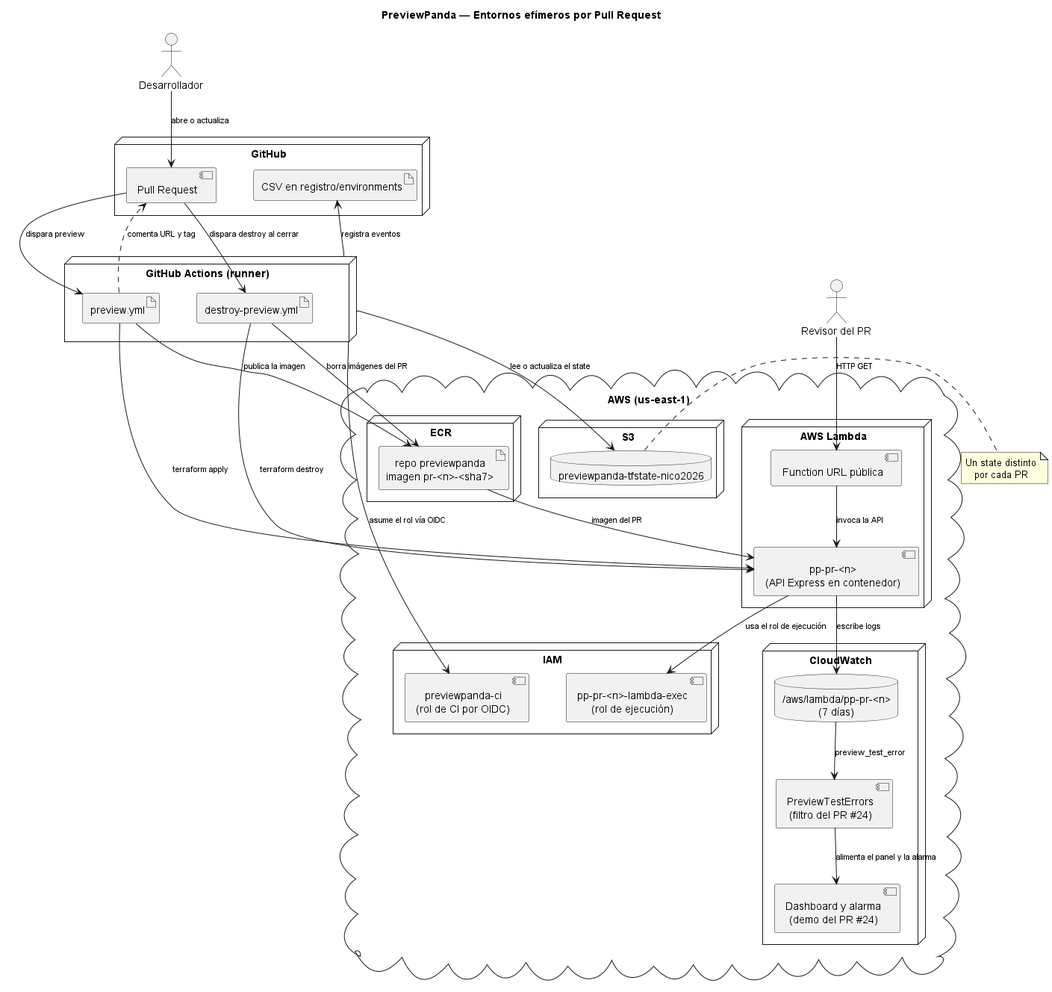
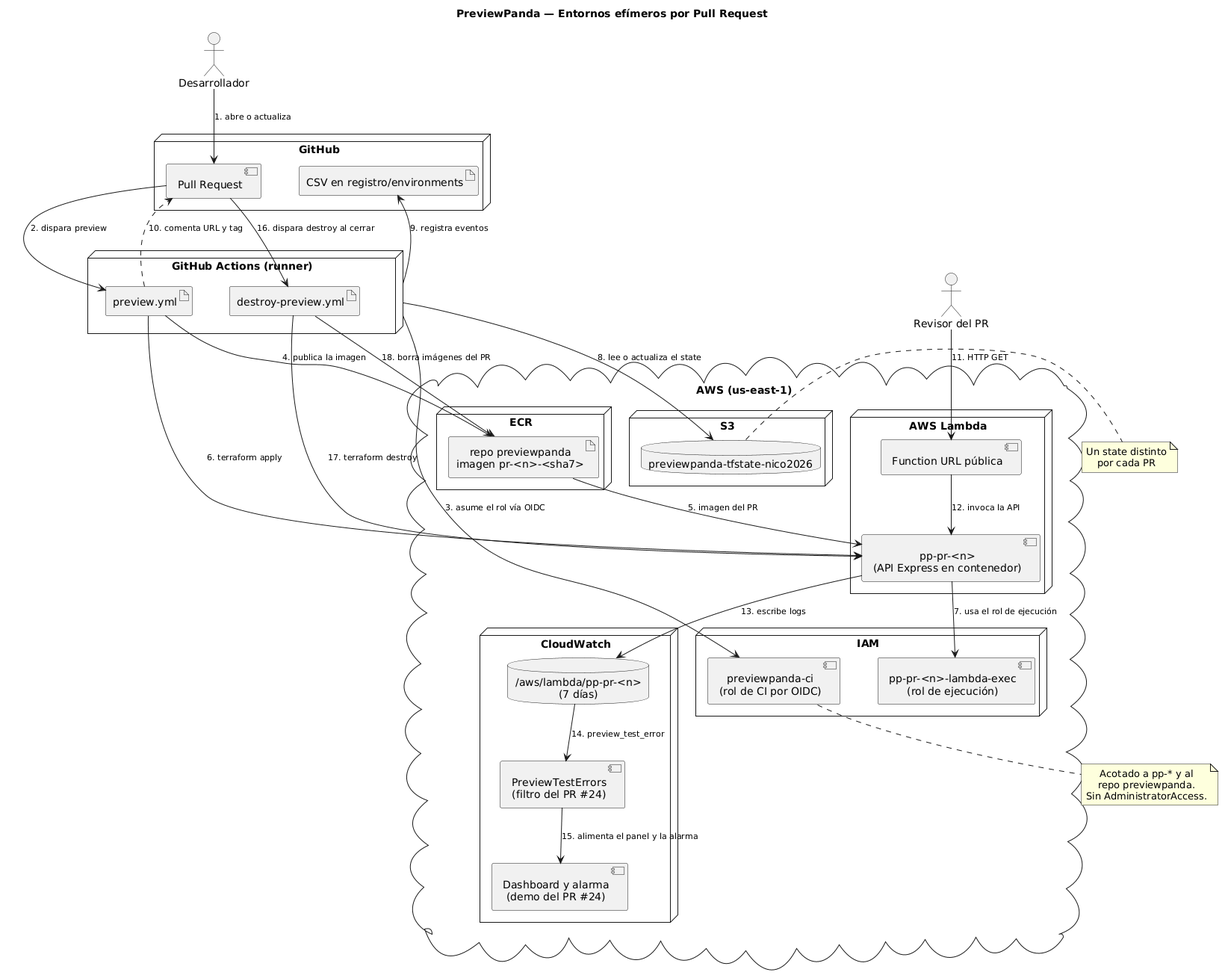
docs: numerar y completar diagrama de despliegue; agregar imagenes de diagramas por workflow; redactar informe con prosa del equipo
Agrega las notas de alcance del rol CI y numera los pasos del diagrama
de despliegue. Suma las imagenes renderizadas de los diagramas de
apply, destroy y destroy manual. Reescribe informe.md en primera
persona, sin cambiar contenido tecnico ni datos.

diff --git a/docs/informe.md b/docs/informe.md
@@ -10,56 +10,56 @@
 
 ## 1. Resumen
 
-PreviewPanda crea un entorno de prueba aislado para cada Pull Request. Al abrir, actualizar o reabrir un PR, GitHub Actions prepara la imagen en Amazon ECR y ejecuta Terraform para desplegar la API en AWS Lambda. El comentario del PR incluye la Function URL y el plan de Terraform.
+Armamos PreviewPanda para que cada Pull Request tenga su propio entorno de prueba aislado. Cuando alguien abre, actualiza o reabre un PR, GitHub Actions prepara la imagen en Amazon ECR y usa Terraform para desplegar la API en AWS Lambda. El comentario que deja en el PR incluye la Function URL y el plan de Terraform que se aplicó.
 
-Cuando el PR se cierra o se mergea, otro workflow ejecuta `terraform destroy` sobre su state y elimina los recursos temporales. Una limpieza nocturna revisa los entornos huérfanos que quedan en S3.
+Cuando el PR se cierra o se mergea, otro workflow corre `terraform destroy` sobre su state y borra todo lo que quedó asociado. Además, todas las noches corre una limpieza que revisa si quedó algún entorno huérfano en S3.
 
-Así, quien revisa el PR puede probar ese commit desde el navegador antes de mergearlo. Una vez cerrado el PR, el entorno deja de estar disponible y queda un registro de su duración y costo estimado.
+Con esto, quien revisa el PR puede probar ese commit directo desde el navegador antes de mergearlo. Una vez que el PR se cierra, el entorno desaparece y queda un registro de cuánto duró y cuánto costó, estimado.
 
 ## 2. Requisitos verificables
 
-| # | Requisito | Implementación en PreviewPanda |
+| # | Requisito | Cómo lo resolvimos |
 |---:|---|---|
-| 1 | Cada PR tiene su propio entorno y URL | Lambda `pp-pr-<n>` con Function URL propia. |
-| 2 | El entorno se destruye al cerrar o mergear | `terraform destroy` y limpieza de los recursos temporales asociados al PR. |
-| 3 | Módulo Terraform reutilizable | Variable `env_name` para generar los nombres del entorno. |
-| 4 | Un state por entorno | Key de S3 con el formato `previews/pr-<n>/terraform.tfstate`. |
-| 5 | Etiqueta `pr=<n>` | Tags comunes aplicados a los recursos creados. |
-| 6 | Limpieza nocturna de huérfanos | `nightly-cleanup.yml` ejecuta `scripts/cleanup_orphans.py` todos los días a las 03:00 de Uruguay. |
-| 7 | Política de concurrencia | Grupo `preview-pr-<n>` para serializar las ejecuciones del mismo PR. |
-| 8 | Registro y costo por entorno | Los workflows escriben en el CSV de la rama `registro/environments`. El PR #26 muestra los tres eventos del ciclo. |
+| 1 | Cada PR tiene su propio entorno y URL | Una Lambda `pp-pr-<n>` con su propia Function URL. |
+| 2 | El entorno se destruye al cerrar o mergear | `terraform destroy` más la limpieza de todo lo asociado al PR. |
+| 3 | Módulo Terraform reutilizable | La variable `env_name` genera todos los nombres del entorno. |
+| 4 | Un state por entorno | Cada PR tiene su propia key en S3: `previews/pr-<n>/terraform.tfstate`. |
+| 5 | Etiqueta `pr=<n>` | Tags comunes que se aplican a todos los recursos que se crean. |
+| 6 | Limpieza nocturna de huérfanos | `nightly-cleanup.yml` corre `scripts/cleanup_orphans.py` todos los días a las 03:00 de Uruguay. |
+| 7 | Política de concurrencia | Un grupo `preview-pr-<n>` que serializa las ejecuciones de un mismo PR. |
+| 8 | Registro y costo por entorno | Los workflows escriben en el CSV que vive en la rama `registro/environments`. El PR #26 muestra los tres eventos del ciclo completo. |
 
-## 3. Alcance de la aplicación
+## 3. La aplicación
 
-La aplicación es una API Node.js con Express. Se ejecuta localmente como servidor HTTP y en AWS Lambda mediante una imagen de contenedor.
+Hicimos una API de Node.js con Express, chica a propósito. Corre local como servidor HTTP, y en AWS corre en Lambda con una imagen de contenedor.
 
-Cada preview usa una imagen identificada por el número de PR y el commit. Terraform configura estas variables en Lambda:
+Cada preview usa una imagen identificada por el número del PR y el commit. Terraform le pasa estas variables a la Lambda:
 
-- `PR_NUMBER`: número del Pull Request.
-- `COMMIT_SHA`: commit de la imagen desplegada.
+- `PR_NUMBER`: el número del Pull Request.
+- `COMMIT_SHA`: el commit de la imagen que está desplegada.
 
 ### Endpoints
 
-| Endpoint | Propósito |
+| Endpoint | Para qué sirve |
 |---|---|
-| `GET /` | Devuelve nombre de la aplicación, PR, commit y ruta de Swagger. |
-| `GET /health` | Responde `200 ok` para health checks y smoke tests. |
-| `GET /error` | Devuelve un `500` controlado para probar logs y alarmas. |
-| `GET /api-docs` | Expone la documentación interactiva Swagger. |
+| `GET /` | Devuelve el nombre de la app, el PR, el commit y dónde está Swagger. |
+| `GET /health` | Responde `200 ok`, para health checks y smoke tests. |
+| `GET /error` | Devuelve un `500` a propósito, para probar logs y alarmas. |
+| `GET /api-docs` | La documentación interactiva de Swagger. |
 
-### 3.1 Pruebas de la aplicación
+### 3.1 Cómo probamos la aplicación
 
-Las mismas rutas se prueban primero localmente y luego sobre la Function URL creada para el PR.
+Las mismas rutas las probamos primero local y después sobre la Function URL que se crea para el PR.
 
 #### `GET /`
 
-Verifica la identidad del entorno desplegado.
+Sirve para confirmar qué entorno es.
 
 ```text
 GET /
 ```
 
-Ejemplo de respuesta:
+Respuesta esperada:
 
 ```json
 {
@@ -70,11 +70,11 @@ Ejemplo de respuesta:
 }
 ```
 
-La respuesta refleja el Pull Request probado y el commit usado para construir la imagen. En local, si no se configuran variables, se muestran los valores `NOT_CONFIGURED`.
+El `pr` y el `commit` tienen que coincidir con lo que se está probando. Si la corremos local sin configurar nada, aparece `NOT_CONFIGURED` en los dos campos.
 
 #### `GET /health`
 
-Verifica que la Lambda y la aplicación respondan correctamente.
+Confirma que la Lambda y la app están respondiendo.
 
 ```text
 GET /health
@@ -87,11 +87,11 @@ HTTP 200
 ok
 ```
 
-Esta ruta sirve para comprobar manualmente que el entorno responde después del despliegue.
+La usamos para chequear a mano que el entorno responde apenas se despliega.
 
 #### `GET /error`
 
-Genera un error controlado para probar observabilidad.
+Genera un error a propósito para poder probar la observabilidad.
 
 ```text
 GET /error
@@ -106,38 +106,35 @@ HTTP 500
 }
 ```
 
-El error es intencional. En AWS aparece en los logs de CloudWatch con la marca
-`preview_test_error`. La alarma de la demo utiliza un filtro de métrica sobre
-esa marca, porque un `HTTP 500` controlado no necesariamente incrementa la
-métrica nativa `AWS/Lambda Errors`.
+El error es intencional. En AWS queda registrado en CloudWatch Logs con la marca `preview_test_error`. Usamos un filtro de métrica sobre esa marca para la alarma de la demo, porque un `HTTP 500` que generamos nosotros no necesariamente le suma a la métrica nativa `AWS/Lambda Errors`.
 
 #### `GET /api-docs`
 
-Abre la interfaz Swagger de la API.
+Abre Swagger.
 
 ```text
 GET /api-docs
 ```
 
-Desde Swagger se pueden ejecutar `/`, `/health` y `/error` sobre el entorno local o sobre la Function URL del PR.
+Desde ahí se pueden probar `/`, `/health` y `/error`, tanto local como sobre la Function URL del PR.
 
 ### 3.2 Terraform Quality
 
-Cuando se abre, actualiza o reabre un PR, el workflow `Terraform Quality` revisa el formato, valida la configuración y ejecuta TFLint en `infra/preview`. Inicializa Terraform con `-backend=false`, por lo que estos controles se ejecutan sin credenciales de AWS ni acceso al state de S3. Checkov escanea `infra/` y sus hallazgos quedan en el log del job mediante `soft_fail: true`. El workflow Preview ejecuta el plan contra AWS y lo publica como parte del comentario del PR.
+Cuando se abre, actualiza o reabre un PR, corre el workflow `Terraform Quality`: revisa el formato, valida la configuración y corre TFLint sobre `infra/preview`. Inicializa Terraform con `-backend=false`, así que estos controles corren sin necesitar credenciales de AWS ni acceso al state de S3. Checkov escanea `infra/` y deja sus hallazgos en el log del job, pero con `soft_fail: true` no bloquea nada. El plan real contra AWS lo corre el workflow Preview, y ese sí se publica en el comentario del PR.
 
-## 4. Arquitectura AWS
+## 4. Arquitectura en AWS
 
-Elegimos Lambda porque la API recibe poco tráfico y se invoca bajo demanda. La Function URL le da al revisor acceso directo al preview sin agregar otro servicio para exponer la API.
+Elegimos Lambda porque la API recibe poco tráfico y se invoca bajo demanda, no tiene sentido tener algo prendido todo el tiempo. La Function URL le da al revisor acceso directo al preview sin tener que meter otro servicio en el medio solo para exponer la API.
 
 - **AWS Lambda con imagen de contenedor:** una función por Pull Request.
 - **Lambda Function URL:** URL pública propia para cada preview.
-- **Amazon ECR:** repositorio compartido para las imágenes Docker.
-- **Amazon S3:** state remoto de Terraform.
-- **GitHub Actions:** build, publicación de imagen, Terraform y comentarios en PR.
-- **GitHub Actions OIDC + IAM:** autenticación sin claves estáticas.
+- **Amazon ECR:** un repositorio compartido para las imágenes Docker.
+- **Amazon S3:** guarda el state remoto de Terraform.
+- **GitHub Actions:** hace el build, publica la imagen, corre Terraform y comenta en el PR.
+- **GitHub Actions OIDC + IAM:** autenticación sin claves fijas.
 - **Amazon CloudWatch:** logs, dashboard y alarma.
 
-### Valores
+### Datos concretos
 
 | Dato | Valor |
 |---|---|
@@ -149,108 +146,97 @@ Elegimos Lambda porque la API recibe poco tráfico y se invoca bajo demanda. La 
 | Lock del state | `use_lockfile = true` |
 | Rol de CI | `previewpanda-ci` |
 
-Los previews comparten el repositorio ECR, el bucket S3, el proveedor OIDC y el rol de CI. Cada PR tiene su Lambda, su Function URL pública, su rol de ejecución, su grupo de logs, su state y sus imágenes. El dashboard y la alarma del PR #24 se configuraron en la consola para la prueba de observabilidad.
+El repositorio ECR, el bucket S3, el proveedor OIDC y el rol de CI son compartidos entre todos los previews. Cada PR tiene su propia Lambda, su Function URL, su rol de ejecución, su grupo de logs, su state y sus imágenes. El dashboard y la alarma los configuramos en la consola para la prueba de observabilidad del PR #24.
 
 ## 5. Flujo de creación y destrucción
 
-### Apertura, actualización o reapertura de un PR
+### Al abrir, actualizar o reabrir un PR
 
 1. Un desarrollador abre, actualiza o reabre un Pull Request.
-2. GitHub Actions obtiene credenciales temporales mediante OIDC.
+2. GitHub Actions obtiene credenciales temporales por OIDC.
 3. El workflow busca en ECR el tag `pr-<n>-<sha7>`.
-4. Si el tag no existe, construye y publica la imagen de `app/`.
-5. Terraform inicializa el backend con el state del PR.
-6. Terraform genera el plan y lo guarda en `tfplan`.
-7. El workflow aplica ese mismo plan y obtiene la Function URL de la Lambda `pp-pr-<n>`.
-8. El workflow registra `created` o `updated` en el CSV de la rama `registro/environments`.
-9. El workflow publica o actualiza el comentario del PR con la URL, el commit, el tag de la imagen y el detalle del plan. Si falla el despliegue, el comentario indica el fallo y enlaza a la ejecución.
+4. Si ese tag todavía no existe, construye y publica la imagen de `app/`.
+5. Terraform inicializa el backend con el state de ese PR.
+6. Terraform arma el plan y lo guarda en `tfplan`.
+7. El workflow aplica ese mismo plan y agarra la Function URL de la Lambda `pp-pr-<n>`.
+8. Se registra `created` o `updated` en el CSV de la rama `registro/environments`.
+9. El workflow comenta o actualiza el comentario del PR con la URL, el commit, el tag de la imagen y el detalle del plan. Si algo falla, el comentario avisa y linkea a la ejecución.
 
-La imagen tiene que estar en ECR antes de aplicar el plan. Si el tag ya existe, el workflow reutiliza esa imagen.
+La imagen tiene que estar en ECR antes de aplicar el plan, sino la Lambda no tiene de dónde agarrar el código. Si el tag ya existe, directamente se reusa esa imagen.
 
-### Cierre o merge del PR
+### Al cerrar o mergear el PR
 
-1. GitHub Actions detecta el cierre o merge.
+1. GitHub Actions detecta el cierre o el merge.
 2. El workflow llama a `scripts/destruir_entorno.sh`, que inicializa Terraform con el mismo state `previews/pr-<n>/terraform.tfstate`.
-3. Se ejecuta `terraform destroy`.
-4. Se elimina la Lambda y los recursos asociados.
-5. El workflow elimina el objeto activo del state en S3.
-6. El workflow elimina las imágenes etiquetadas para el PR en ECR.
-7. El workflow registra la destrucción y la duración del entorno en la rama `registro/environments`. Con una tarifa configurada, también registra el costo estimado.
-8. El workflow actualiza el comentario del PR con el resultado de la limpieza.
+3. Corre `terraform destroy`.
+4. Se borra la Lambda y todo lo asociado.
+5. Se borra el objeto activo del state en S3.
+6. Se borran las imágenes de ese PR en ECR.
+7. Se registra la destrucción y cuánto duró el entorno en la rama `registro/environments`. Si hay una tarifa configurada, también se registra el costo estimado.
+8. Se actualiza el comentario del PR con el resultado de la limpieza.
 
-### Limpieza nocturna y destrucción manual
+### Limpieza nocturna y destroy manual
 
-El workflow `nightly-cleanup.yml` revisa los states de S3 todos los días a las 06:00 UTC (03:00 de Uruguay). El script conserva los entornos con un PR abierto o cuyo estado no puede confirmar. Para los PR cerrados, mergeados o identificados como inexistentes, compara los días enteros desde la última modificación del state con `DIAS_LIMITE`, que vale 3 por defecto. Si supera ese límite, intenta destruir el entorno.
+`nightly-cleanup.yml` revisa los states de S3 todos los días a las 06:00 UTC (03:00 de Uruguay). El script no toca los entornos cuyo PR sigue abierto, ni los que no puede confirmar. Para los que están cerrados, mergeados o directamente no existen más, compara cuántos días enteros pasaron desde la última modificación del state contra `DIAS_LIMITE`, que vale 3 por defecto. Si se pasó de ese límite, lo destruye.
 
-El workflow manual `destroy.yml` se ejecuta desde `main`. Por defecto lista todos los entornos de preview. Con el modo de listado desactivado y la confirmación `destroy`, llama al mismo script de destrucción que usa el workflow de cierre de PR.
+También dejamos un workflow manual, `destroy.yml`, que se corre desde `main`. Por defecto solo lista los entornos que hay. Si se desactiva el modo listado y se confirma con `destroy`, llama al mismo script de destrucción que usa el workflow de cierre de PR.
 
 ## 6. Concurrencia y aislamiento
 
-Cada PR utiliza un state diferente y un grupo de concurrencia propio:
+Cada PR usa un state distinto y su propio grupo de concurrencia:
 
 ```text
 preview-pr-<n>
 ```
 
-Esto evita que dos ejecuciones del mismo PR modifiquen simultáneamente el mismo state. Los PR diferentes pueden ejecutarse de forma independiente.
+Esto evita que dos ejecuciones del mismo PR toquen el mismo state al mismo tiempo. PR distintos sí pueden correr en paralelo sin problema.
 
-Preview y Destroy preview comparten ese grupo. El diagrama de concurrencia muestra el caso de dos pushes seguidos al mismo PR y cómo el segundo espera mientras corre el primero. La limpieza nocturna y el destroy manual usan grupos propios porque recorren varios entornos. El bloqueo de S3 también protege el state cuando dos operaciones de Terraform coinciden. Los casos de concurrencia están en [Concurrencia.md](Concurrencia.md).
+Preview y Destroy preview comparten ese mismo grupo. En el diagrama de concurrencia mostramos el caso de dos pushes seguidos al mismo PR, y cómo el segundo espera a que termine el primero en vez de cancelarlo. La limpieza nocturna y el destroy manual usan grupos propios porque recorren varios entornos a la vez. El lock de S3 también protege el state cuando coinciden dos operaciones de Terraform. El detalle de todos los casos está en [Concurrencia.md](Concurrencia.md).
 
 ## 7. Observabilidad
 
-Configuramos el dashboard y la alarma desde la consola de AWS para el PR #24, con la imagen `pr-24-626cda2`. Para probar la alarma llamamos a `GET /error` desde la Function URL. La API responde con HTTP 500 y escribe `preview_test_error` en CloudWatch Logs. Un filtro cuenta esas entradas en la métrica personalizada `PreviewTestErrors`.
+Configuramos el dashboard y la alarma desde la consola de AWS para el PR #24, con la imagen `pr-24-626cda2`. Para probar la alarma llamamos a `GET /error` desde la Function URL. La API responde con un 500 y escribe `preview_test_error` en CloudWatch Logs. Un filtro cuenta esas entradas en la métrica propia `PreviewTestErrors`.
 
-En la captura se ven cinco errores de prueba, la alarma `previewpanda-pr-24-error` activada y el panel con las métricas de Lambda `Duration`, `Errors`, `Invocations` y `Throttles`. Terraform configura la retención de los grupos de logs en siete días.
+En la captura se ven cinco errores de prueba, la alarma `previewpanda-pr-24-error` activada, y el panel con las métricas de Lambda `Duration`, `Errors`, `Invocations` y `Throttles`. Terraform configura la retención de los log groups en 7 días.
 
 ![Dashboard y alarma de CloudWatch](images/dashboard-alarma-aws.png)
 
 ## 8. Seguridad e IAM
 
-GitHub Actions se autentica en AWS mediante OIDC. El repositorio no guarda access keys ni secret keys de AWS.
+GitHub Actions se autentica en AWS por OIDC. No guardamos access keys ni secret keys en el repo.
 
-El rol `previewpanda-ci` utiliza la política mínima documentada en [docs/previewpanda-ci-policy.json](previewpanda-ci-policy.json).
+El rol `previewpanda-ci` usa la política mínima que está documentada en [docs/previewpanda-ci-policy.json](previewpanda-ci-policy.json). La armamos y la probamos en producción con un PR real, iterando sobre los errores de permisos que fueron apareciendo, hasta sacarle `AdministratorAccess` por completo.
 
-La [matriz IAM](iam.md) detalla qué identidades usa el proyecto, qué recursos puede tocar cada una y para qué necesita esos permisos.
+En la [matriz IAM](iam.md) está el detalle de qué identidad usa el proyecto, qué recursos puede tocar cada una y por qué necesita esos permisos.
 
 ## 9. FinOps
 
-La estimación inicial del proyecto es de aproximadamente **USD 0–2 por mes**, siempre que los previews se destruyan correctamente y no se mantengan recursos costosos encendidos. El detalle de supuestos y evidencias está en [docs/finops.md](finops.md).
+La estimación inicial para este proyecto es de **USD 0 a 2 por mes**, siempre que los previews se destruyan bien y no quede nada prendido de más. El detalle completo de supuestos y evidencias está en [docs/finops.md](finops.md).
 
-Las medidas principales de ahorro son:
+Las medidas que más ayudan a bajar el costo:
 
-- Lambda bajo demanda.
+- Lambda bajo demanda, no hay nada corriendo todo el tiempo.
 - Una sola región: `us-east-1`.
-- Limpieza de imágenes asociadas a PRs cerrados.
-- Destrucción automática del entorno.
-- Limpieza programada de entornos huérfanos.
-- Retención de logs limitada a 7 días.
+- Limpieza de las imágenes de los PR que ya se cerraron.
+- Destrucción automática del entorno al cerrar el PR.
+- Limpieza programada de entornos que quedaron huérfanos.
+- Retención de logs de solo 7 días.
 
-Cost Explorer mostró un costo observado de USD 0,00 para la ventana
-12/11/2026–13/11/2026 en los servicios consultados. Ese dato corresponde a la
-cuenta y no permite atribuir un importe exacto al PR #24. Además, está activo
-el presupuesto mensual `previewpanda-presupuesto` por USD 10,00, con tres
-destinatarios verificados y tres alertas asociadas por destinatario. La pestaña
-de alertas confirma los umbrales 50 % (USD 5,00), 80 % (USD 8,00) y
-100 % (USD 10,00), todos sin superar en la captura del presupuesto. El rango de USD 0–2 corresponde al alcance de la demo.
+En Cost Explorer vimos un costo de USD 0,00 para la ventana del 12/11/2026 al 13/11/2026, en los servicios que consultamos. Ese dato es de toda la cuenta, no podemos atribuirle un importe exacto al PR #24. Además tenemos activo el presupuesto mensual `previewpanda-presupuesto` por USD 10,00, con tres destinatarios verificados y sus tres alertas correspondientes. La pestaña de alertas confirma los umbrales: 50 % (USD 5,00), 80 % (USD 8,00) y 100 % (USD 10,00), ninguno superado en la captura. El rango de USD 0-2 es el que corresponde al alcance de la demo.
 
 ## 10. Registro de entornos
 
-Los workflows de Preview y Destroy preview llaman a `scripts/registrar_entorno.sh` para agregar filas a [environments.csv](environments.csv). El historial se guarda en la rama `registro/environments`.
+Los workflows de Preview y Destroy preview llaman a `scripts/registrar_entorno.sh` para ir agregando filas a [environments.csv](environments.csv). El historial completo queda en la rama `registro/environments`.
 
-- El workflow de preview registra `created` al abrir o reabrir un PR y `updated`
-  en cada push posterior. La fila incluye el tag de ECR, la Function URL, el
-  commit y el enlace a la ejecución de GitHub Actions.
-- El workflow de destroy registra `destroyed` después de completar la
-  destrucción, borrar el state y eliminar las imágenes del PR. El script usa el último `created` para calcular la duración. Si falta esa fila, toma la fecha de apertura del PR. Con `PREVIEW_COST_USD_PER_HOUR` configurada multiplica las horas por la tarifa. Si falta la tarifa, deja el costo vacío.
-- Si otro proceso actualiza la rama al mismo tiempo, el script reintenta el push. Los workflows permiten que el paso de registro falle sin cambiar el resultado del despliegue o la destrucción.
+- Preview registra `created` al abrir o reabrir un PR, y `updated` en cada push que viene después. La fila trae el tag de ECR, la Function URL, el commit y el link a la ejecución de GitHub Actions.
+- Destroy registra `destroyed` después de terminar la destrucción, borrar el state y sacar las imágenes del PR. El script usa el último `created` que encuentra para calcular cuánto duró el entorno; si no hay esa fila, usa la fecha de apertura del PR. Si está configurada la variable `PREVIEW_COST_USD_PER_HOUR`, multiplica las horas por esa tarifa; si no está, deja el costo vacío en vez de inventar un número.
+- Si otro proceso toca la rama al mismo tiempo, el script reintenta el push. Y si el registro falla igual, el workflow sigue adelante: no queremos que un problema de CSV tire abajo el despliegue o la destrucción.
 
-Las URL, las fechas y los tags se toman de ejecuciones reales; la columna
-`estimated_cost_usd` representa una estimación basada en la duración del entorno.
+Las URL, fechas y tags salen de ejecuciones reales. La columna `estimated_cost_usd` es justamente eso, una estimación según cuánto duró el entorno.
 
 ### Ejemplo real: PR #26
 
-El siguiente registro muestra la creación, actualización y destrucción del
-entorno asociado al PR #26:
+Este registro muestra la creación, actualización y destrucción del entorno del PR #26:
 
 ```csv
 pr_number,environment,event,occurred_at,image_tag,url,lifetime_hours,estimated_cost_usd,notes
@@ -259,15 +245,15 @@ pr_number,environment,event,occurred_at,image_tag,url,lifetime_hours,estimated_c
 26,pr-26,destroyed,2026-11-18T03:35:42Z,pr-26-b176149,,0.07,0.000007,mergeado run=https://github.com/NicooGon/previewpanda/actions/runs/44231473760
 ```
 
-El entorno mantuvo la misma URL al pasar de la imagen `pr-26-2f13196` a `pr-26-b176149`. Tras el merge, el registro muestra una vida de 4 minutos y 4 segundos (`0.07` horas redondeadas) y un costo estimado de USD `0.000007`. Cada fila conserva el enlace a su ejecución de GitHub Actions en `notes`.
+El entorno mantuvo la misma URL cuando pasó de la imagen `pr-26-2f13196` a `pr-26-b176149`. Después del merge, el registro muestra una vida de 4 minutos y 4 segundos (`0.07` horas redondeadas) y un costo estimado de USD `0.000007`. Cada fila guarda el link a su ejecución de GitHub Actions en `notes`.
 
 ## 11. Diagramas
 
-Los siete diagramas en PlantUML muestran desde la arquitectura en AWS hasta los pasos que ejecuta GitHub Actions, con un diagrama de secuencia propio para cada workflow.
+Armamos siete diagramas en PlantUML, desde la arquitectura general en AWS hasta un diagrama de secuencia propio para cada workflow.
 
 ### 11.1 Diagrama de despliegue AWS
 
-Muestra qué queda en GitHub y qué se ejecuta en AWS, cómo el revisor llega a la API y cómo los logs del PR #24 alimentan la métrica y la alarma.
+Muestra qué queda en GitHub y qué se ejecuta en AWS, cómo el revisor llega a la API, y cómo los logs del PR #24 alimentan la métrica y la alarma.
 
 Archivo fuente: [diagrama-despliegue.puml](diagrams/diagrama-despliegue.puml).
 
@@ -275,7 +261,7 @@ Archivo fuente: [diagrama-despliegue.puml](diagrams/diagrama-despliegue.puml).
 
 ### 11.2 Diagrama de actividad de limpieza de huérfanos
 
-Muestra las decisiones que toma el script cuando lo invoca el workflow nocturno. El criterio combina el estado del PR y los días enteros desde la última modificación del state.
+Muestra las decisiones que toma el script cuando lo corre el workflow nocturno. El criterio combina el estado del PR con los días enteros que pasaron desde la última modificación del state.
 
 Archivo fuente: [diagrama-estados-huerfanos.puml](diagrams/diagrama-estados-huerfanos.puml).
 
@@ -283,9 +269,7 @@ Archivo fuente: [diagrama-estados-huerfanos.puml](diagrams/diagrama-estados-huer
 
 ### 11.3 Diagrama de secuencia de concurrencia
 
-Muestra cómo dos pushes sucesivos del mismo PR se serializan mediante el grupo
-`preview-pr-<n>` para evitar que dos ejecuciones modifiquen el mismo state al
-mismo tiempo.
+Muestra cómo dos pushes seguidos al mismo PR se serializan con el grupo `preview-pr-<n>`, para que no haya dos ejecuciones tocando el mismo state a la vez.
 
 Archivo fuente: [diagrama-secuencia-concurrencia.puml](diagrams/diagrama-secuencia-concurrencia.puml).
 
@@ -293,7 +277,7 @@ Archivo fuente: [diagrama-secuencia-concurrencia.puml](diagrams/diagrama-secuenc
 
 ### 11.4 Diagrama de secuencia del workflow Terraform Quality
 
-Muestra cómo GitHub Actions prepara el runner, revisa Terraform y publica el resultado del job `quality`.
+Muestra cómo GitHub Actions prepara el runner, revisa el Terraform y publica el resultado del job `quality`.
 
 Archivo fuente: [diagrama-secuencia-quality.puml](diagrams/diagrama-secuencia-quality.puml).
 
@@ -301,7 +285,7 @@ Archivo fuente: [diagrama-secuencia-quality.puml](diagrams/diagrama-secuencia-qu
 
 ### 11.5 Diagrama de secuencia de preview.yml (apply)
 
-Sigue el workflow `preview.yml`: assume role por OIDC, build & push condicional de la imagen, `terraform apply`, registro en el CSV y comentario con la URL en el PR.
+Sigue el workflow `preview.yml`: assume role por OIDC, build y push de la imagen si hace falta, `terraform apply`, registro en el CSV y comentario con la URL en el PR.
 
 Archivo fuente: [diagrama-apply.puml](diagrams/diagrama-apply.puml).
 
@@ -309,7 +293,7 @@ Archivo fuente: [diagrama-apply.puml](diagrams/diagrama-apply.puml).
 
 ### 11.6 Diagrama de secuencia de destroy-preview.yml (destroy)
 
-Sigue el workflow `destroy-preview.yml` al cerrar o mergear el PR: `terraform destroy`, limpieza del state en S3, borrado de la imagen en ECR y registro de la destrucción en el CSV, incluyendo el caso en que Terraform falla.
+Sigue el workflow `destroy-preview.yml` al cerrar o mergear el PR: `terraform destroy`, limpieza del state en S3, borrado de la imagen en ECR y registro de la destrucción en el CSV, incluyendo qué pasa si Terraform falla.
 
 Archivo fuente: [diagrama-destroy.puml](diagrams/diagrama-destroy.puml).
 
@@ -317,7 +301,7 @@ Archivo fuente: [diagrama-destroy.puml](diagrams/diagrama-destroy.puml).
 
 ### 11.7 Diagrama de secuencia de destroy.yml (destroy manual)
 
-Sigue el workflow manual `destroy.yml` (`workflow_dispatch`): valida que se ejecute desde `main` y con la confirmación explícita, lista los entornos activos en S3 y, si no es solo listar, recorre cada uno destruyéndolo, dejando seguir el loop aunque alguno falle.
+Sigue el workflow manual `destroy.yml`: valida que se corra desde `main` y con la confirmación explícita, lista los entornos que hay en S3 y, si no es solo listar, los va destruyendo uno por uno, sin frenar el loop si alguno falla.
 
 Archivo fuente: [diagrama-destroy-manual.puml](diagrams/diagrama-destroy-manual.puml).
 
@@ -325,4 +309,4 @@ Archivo fuente: [diagrama-destroy-manual.puml](diagrams/diagrama-destroy-manual.
 
 ## 12. Resultado de las pruebas
 
-En el PR #24 probamos la API desplegada y activamos la alarma de CloudWatch con `/error`. En el PR #26 el CSV dejó registro del despliegue, el cambio de imagen después de un push y el destroy tras el merge. El procedimiento para repetir el ciclo está en el [README](../README.md).
+En el PR #24 probamos la API desplegada y activamos la alarma de CloudWatch con `/error`. En el PR #26 el CSV quedó con el registro completo: el despliegue, el cambio de imagen después de un push, y el destroy tras el merge. El procedimiento para repetir el ciclo está en el [README](../README.md).
